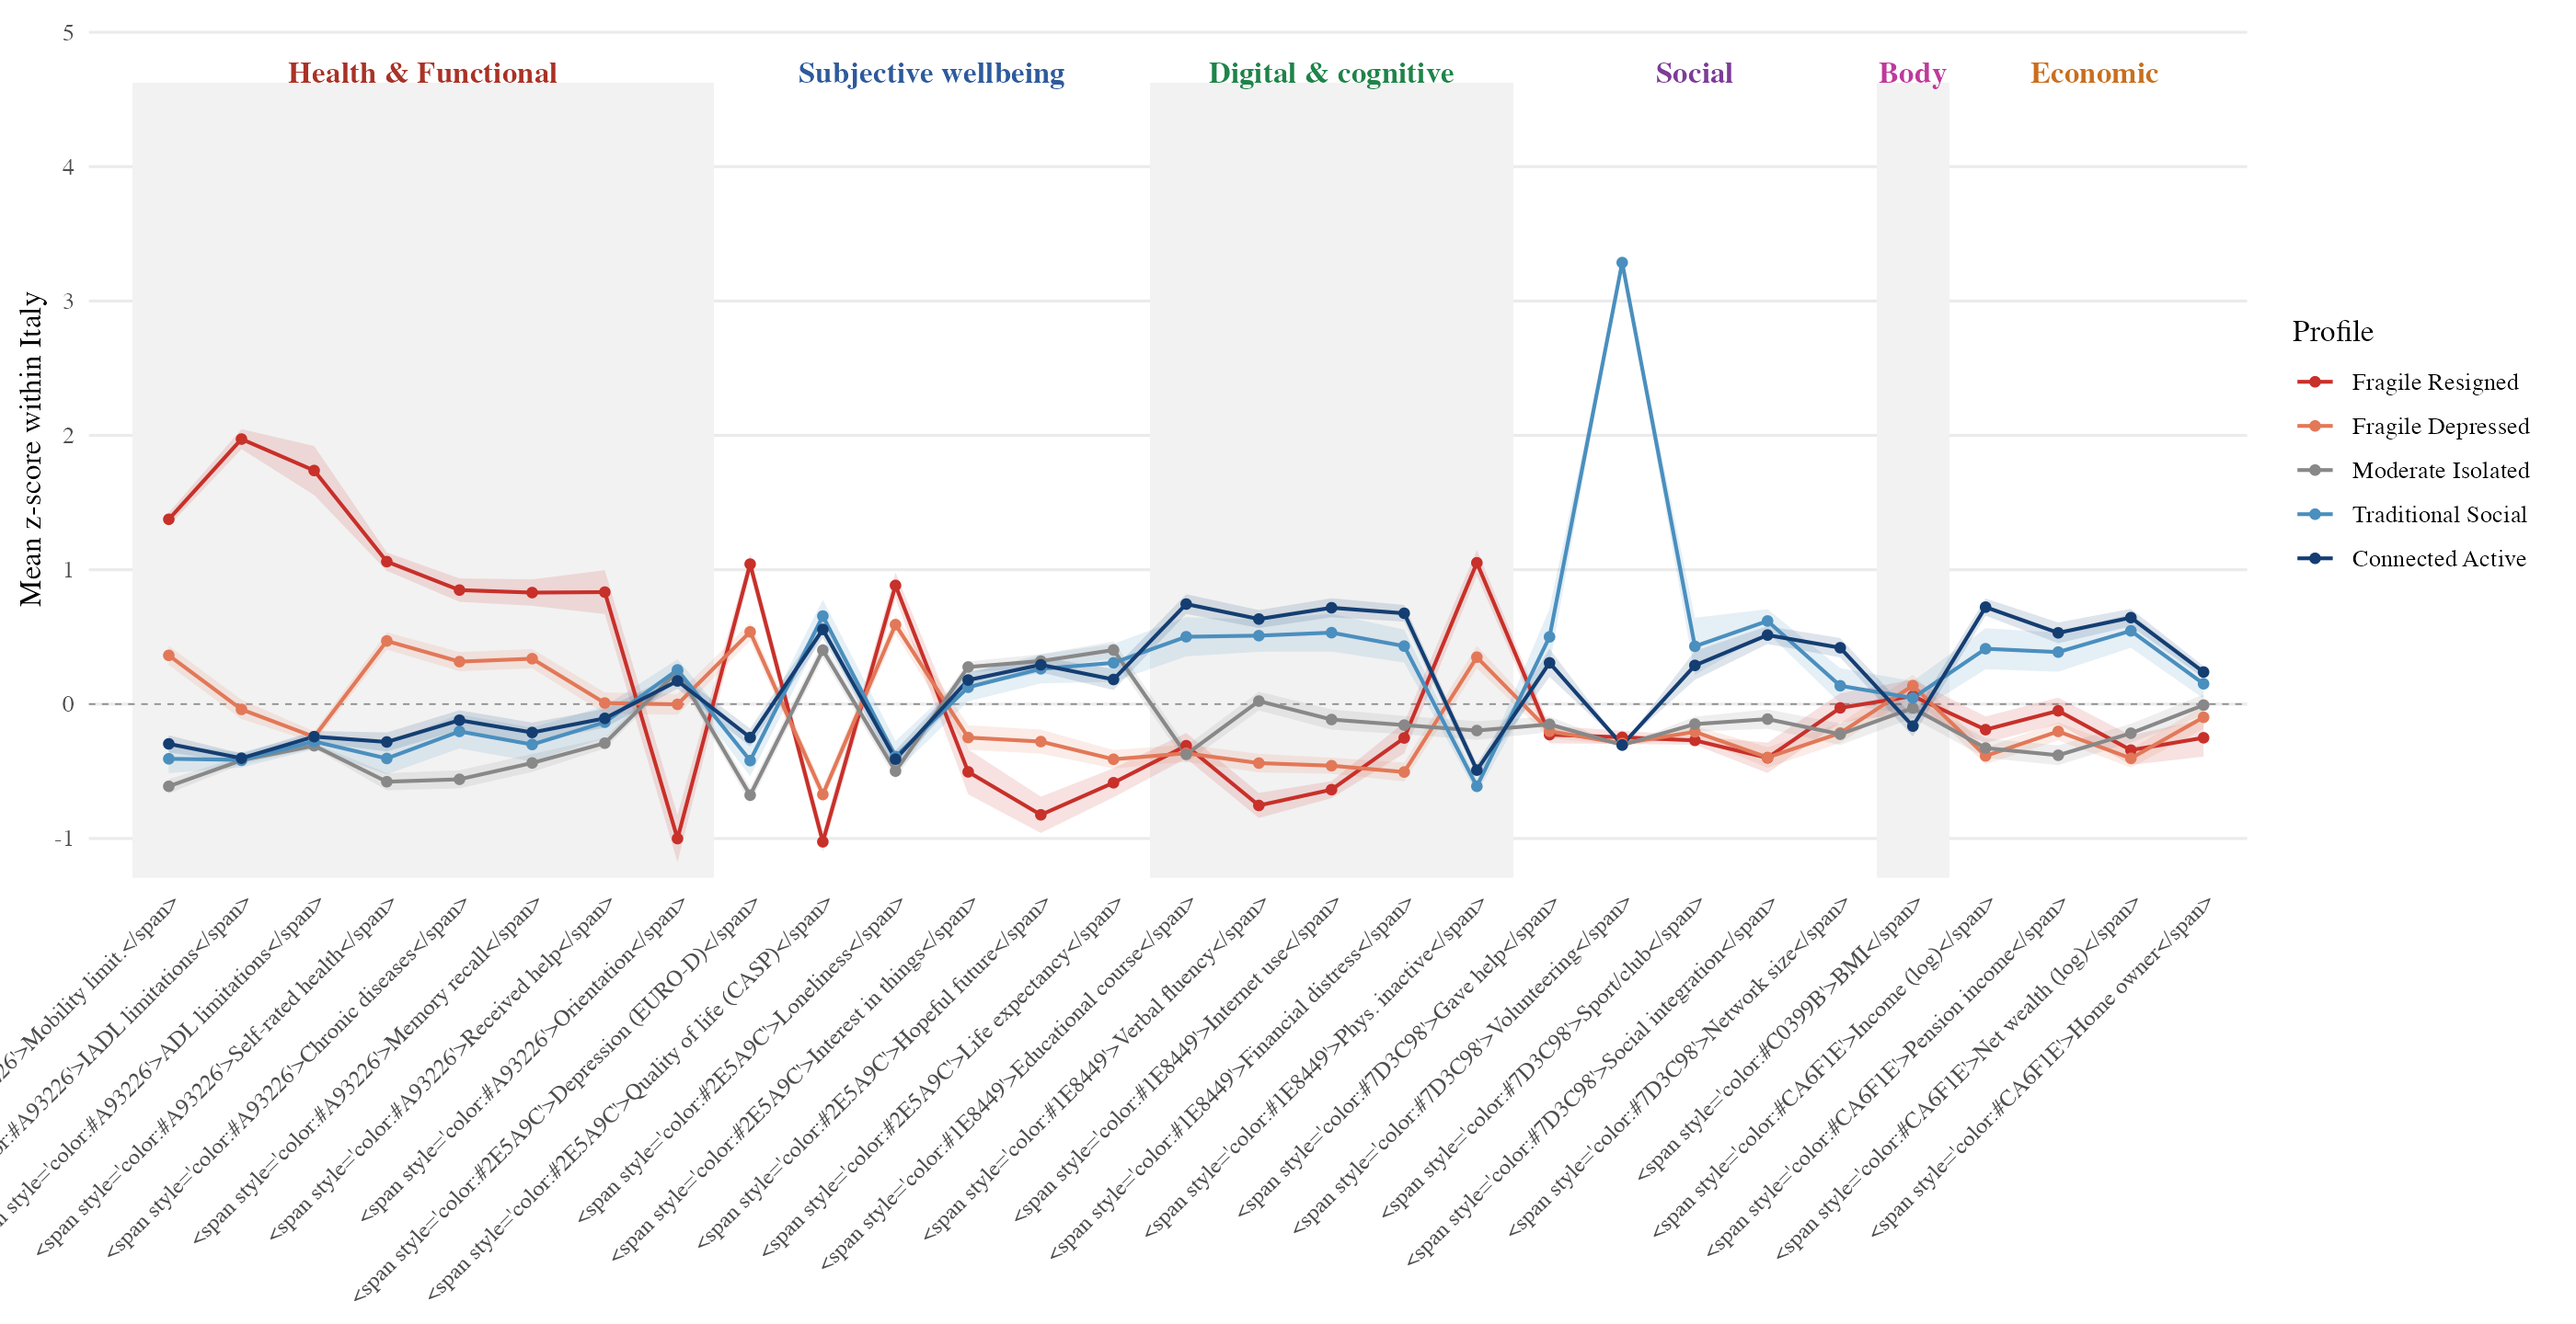
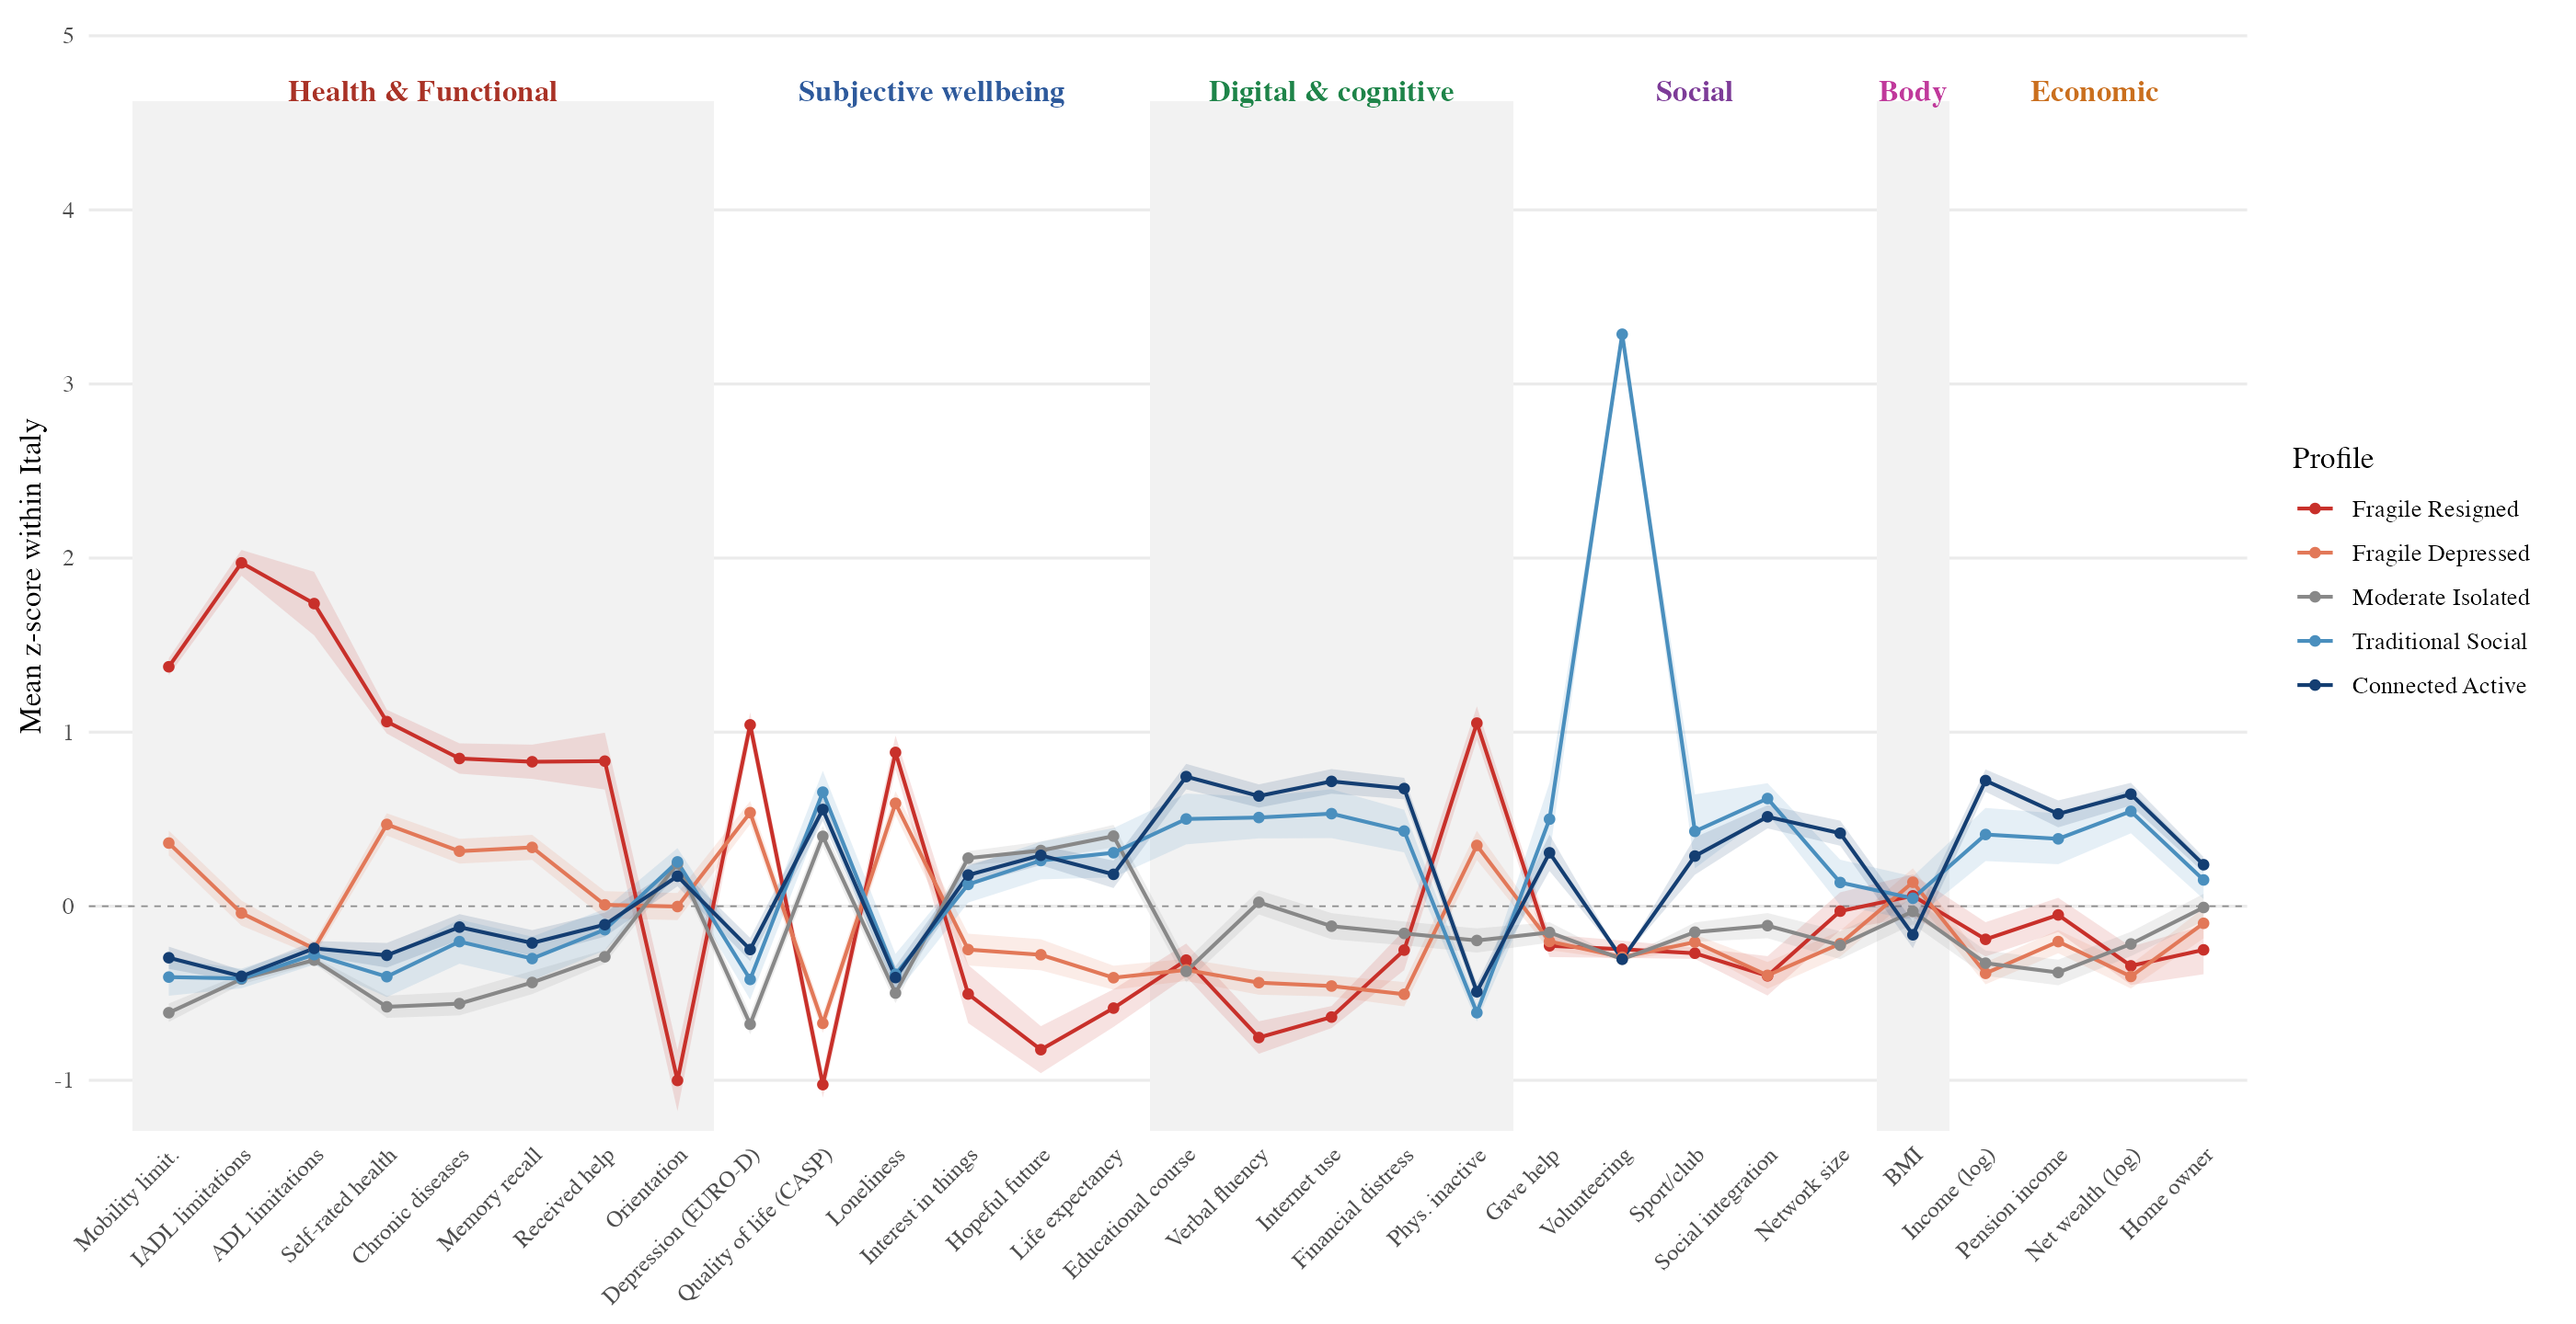
fig(ch4): sposta Fig 4.2 dopo la sua intro (§4.3) + fix etichette x Fig 4.3
Fig 4.2 (fig:ch4-shares): spostata da §4.2 a §4.3, subito dopo la frase che la
introduce ("Their within-sample shares ... Figure~\ref{fig:ch4-shares}."), prima
della prima descrizione di profilo; placement [!ht]. Ora citata prima di apparire.
Fig 4.3: le etichette x mostravano <span ...> HTML letterale; ggtext::element_markdown
non renderizza in questo ambiente nemmeno con ggtext attaccato, quindi (come da
fallback concordato) etichette x nere semplici — header di dimensione colorati e
bande grigie comunicano già il raggruppamento.

diff --git a/Invisible_Profiles_LaTeX_Overleaf/chapters/chapter4.tex b/Invisible_Profiles_LaTeX_Overleaf/chapters/chapter4.tex
@@ -44,19 +44,19 @@ The K-means partition ($k = 5$) groups the 2,378 Italian respondents into five c
   \end{minipage}
 \end{table}
 
-\begin{figure}[!htbp]
-  \centering
-  \includegraphics[width=\linewidth]{figures/04_italy/fig_4_8_NEW.png}
-  \caption[Sample shares and population projections, Italy]{Sample shares and population projections of the five Italian archetypes. Bars report within-sample shares of the K-means partition on the SHARE Wave~9 Italian analytical sample ($n = 2{,}378$); each bar label gives the within-sample share and the weighted national projection (in millions). Projections to the national over-65 population apply post-hoc re-weighting with the SHARE design weight (\texttt{cciw\_w9}; see Table~\ref{tab:ch3-weighted-shares}) and the 2024 Istat over-65 estimate (14.18~million). See \S\ref{sec:ch4-traditional-social} for the substantive interpretation of the small Traditional Social cluster.}
-  \label{fig:ch4-shares}
-\end{figure}
-
 Two raw-scale observations from Figure~\ref{fig:ch4-profiles} anchor the standardised description that follows. First, the age gradient: the Fragile Resigned cluster has a mean age of 81.5 years, against 77.3 (Fragile Depressed), 72.8 (Moderate Isolated), 73.8 (Traditional Social) and 73.9 (Connected Active). The Fragile Resigned are on average approximately seven years older than the four other archetypes, identifying the oldest-old segment of the population. Second, the digital divide: 8.6\% in Fragile Resigned versus 74.8\% in Connected Active, a near nine-fold gap on a single behavioural indicator. From the silver-economy perspective, this gap defines the boundary between cluster groups served by digital products and those for whom traditional welfare and family-based provision remain the only operational channel.
 
 \section{Profile descriptions}
 \label{sec:ch4-profile-descriptions}
 
 Their within-sample shares and the corresponding weighted projections to the national over-65 population are reported in Figure~\ref{fig:ch4-shares}. The five archetypes are described below in the same order as Table~\ref{tab:ch4-archetypes}, from most fragile to most connected. Standardised centroid values are reported in z-units within Italy ($\bar{x} = 0$, $\sigma = 1$); raw means are given in parenthesis where useful for interpretation.
+
+\begin{figure}[!ht]
+  \centering
+  \includegraphics[width=\linewidth]{figures/04_italy/fig_4_8_NEW.png}
+  \caption[Sample shares and population projections, Italy]{Sample shares and population projections of the five Italian archetypes. Bars report within-sample shares of the K-means partition on the SHARE Wave~9 Italian analytical sample ($n = 2{,}378$); each bar label gives the within-sample share and the weighted national projection (in millions). Projections to the national over-65 population apply post-hoc re-weighting with the SHARE design weight (\texttt{cciw\_w9}; see Table~\ref{tab:ch3-weighted-shares}) and the 2024 Istat over-65 estimate (14.18~million). See \S\ref{sec:ch4-traditional-social} for the substantive interpretation of the small Traditional Social cluster.}
+  \label{fig:ch4-shares}
+\end{figure}
 
 \label{sec:ch4-fragile-resigned}
 \textbf{Fragile Resigned} (13.2\%; mean age 81.5) occupies the most adverse position in the typology on every health and functional dimension (IADL $+1.97$, ADL $+1.74$, mobility $+1.38$, EURO-D $+1.04$). Economic resources are only modestly below the mean; the principal axis of fragility is functional autonomy, not income. The subjective signature is the lowest in the typology on every evaluative dimension: CASP-12 $-1.02$ (raw 27.8), loneliness $+0.88$, only 45.4\% reporting hopes for the future against roughly 90\% in the non-fragile profiles, with parallel deficits on interest, expected survival and cognition, supporting the label ``Resigned''. The cluster is the principal target of the Italian long-term-care welfare branch and the lower bound of the silver-economy market: digital and behavioural channels are essentially closed, and service consumption is mediated by family caregivers and institutional providers \citep{ferrera1996, saraceno2010}.
